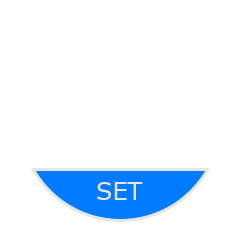
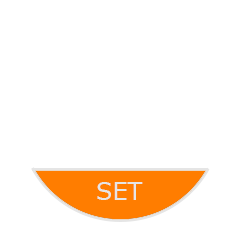
setting temperature

Changed region(s): [[0.1458, 0.7, 0.875, 0.9333]]

diff --git a/src/modbus_controller/MBController.cpp b/src/modbus_controller/MBController.cpp
@@ -10,18 +10,14 @@ void MBController::setupM5Dial()
     auto cfg = M5.config();
     M5Dial.begin(cfg, true, false);
 
-    //M5Dial.Display.begin();
     M5Dial.Display.setTextColor(WHITE);
     M5Dial.Display.setTextDatum(middle_center);
-    M5Dial.Display.setTextFont(&fonts::DejaVu24);
-    M5Dial.Display.setTextSize(1);
-
+    M5Dial.Display.setTextFont(&fonts::DejaVu12);
+    M5Dial.Display.setTextSize(2);
     M5Dial.Display.setBrightness(64);
 
-    //delay(3000);
     SPIFFS.begin(true);
 
-    // filesOpen();
 }
 
 void MBController::filesOpen()
@@ -55,57 +51,26 @@ void MBController::updateM5Dial()
 
 void MBController::checkEncoder()
 {
-    // newPosition_ = M5Dial.Encoder.read();
-
-    // if (newPosition_ - oldPosition_ >= 4) {  // Поворот энкодера
-    //     M5Dial.Speaker.tone(8000, 20);
-
-    //     switch(current_menu_)
-    //     {
-    //         case 0:
-    //             ++main_menu_mode_;
-    //             if (main_menu_mode_ > 1)
-    //             {
-    //                 main_menu_mode_ = 0;
-    //             }
-    //             else if (main_menu_mode_ < 0)
-    //             {
-    //                 main_menu_mode_ = 1;
-    //             }
-    //             break;
-    //         default:
-    //             current_menu_ = 0;
-    //             break;
-    //     }
-        
-    //     oldPosition_ = newPosition_;
-    //     update_ = true;
-    // }
-    // else if (newPosition_ - oldPosition_ <= -4)
-    // {
-    //     M5Dial.Speaker.tone(4000, 20);
-
-    //     switch(current_menu_)
-    //     {
-    //         case 0:
-    //             --main_menu_mode_;
-    //             if (main_menu_mode_ > 1)
-    //             {
-    //                 main_menu_mode_ = 0;
-    //             }
-    //             else if (main_menu_mode_ < 0)
-    //             {
-    //                 main_menu_mode_ = 1;
-    //             }
-    //             break;
-    //         default:
-    //             current_menu_ = 0;
-    //             break;
-    //     }
-        
-    //     oldPosition_ = newPosition_;
-    //     update_ = true;
-    // }
+    switch (current_menu_)
+    {
+    case 1:
+        newPosition_ = M5Dial.Encoder.read();
+        if (newPosition_ - oldPosition_ >= 4) {  // Поворот энкодера
+            M5Dial.Speaker.tone(4000, 20);
+            setTemp(1);
+            oldPosition_ = newPosition_;
+        }
+        else if (newPosition_ - oldPosition_ <= -4)
+        {
+            M5Dial.Speaker.tone(8000, 20);
+            setTemp(-1);
+            oldPosition_ = newPosition_;
+        }
+        break;
+    default:
+        break;
+    }
+    
 }
 
 void MBController::checkTouch()
@@ -154,6 +119,15 @@ void MBController::checkTouch()
     }
 }
 
+void MBController::checkButton()
+{
+    if ((current_menu_ != 0) && (M5Dial.BtnA.pressedFor(1000))) {
+        current_menu_ = 0;
+        update_ = true;
+        M5Dial.Speaker.tone(3000, 20);
+    }
+}
+
 void MBController::updateScreen()
 {
     if (update_)
@@ -175,14 +149,9 @@ void MBController::updateScreen()
     }
 }
 
-void MBController::drawCursor()
-{
-    // float angle[2] = {3.1415, 0};
-    // M5Dial.Display.fillCircle(M5Dial.Display.width()/2 + M5Dial.Display.width()*0.2*cos(angle[main_menu_mode_]), M5Dial.Display.height()/2, 5, WHITE);
-}
-
 void MBController::drawMainMenu()
 {
+    M5Dial.Display.fillScreen(BLACK);
     M5Dial.Display.drawPngFile(SPIFFS, "/Main_Temperature.png", 0, 0);
     //M5Dial.Display.drawPngFile(SPIFFS, "/Main_Temperature.png", 0, 0, M5Dial.Display.width(), M5Dial.Display.height(), 0, 0, 2, 2);
     M5Dial.Display.drawPngFile(SPIFFS, "/Main_Start.png", 0, 125);
@@ -238,7 +207,30 @@ void MBController::selectAnimation(byte btn)
 
 void MBController::drawTempMenu()
 {
-    M5Dial.Display.fillScreen(BLUE);
+    M5Dial.Display.fillScreen(BLACK);
     M5Dial.Display.drawPngFile(SPIFFS, "/Temperature_button.png", 0, 0);
     M5Dial.Display.drawPngFile(SPIFFS, "/Temperature_colorbar.png", 0, 0);
+    M5Dial.Display.drawPngFile(SPIFFS, "/Temp_for_temp.png", 20, 120);
+    M5Dial.Display.drawPngFile(SPIFFS, "/Cels_for_temp.png", 180, 120);
+    M5Dial.Display.drawString(String(temperature_), 120, 120, &fonts::FreeSans24pt7b); //FreeSans24pt7b Orbitron_Light_32
+    drawCursor();
+}
+
+void MBController::setTemp(byte inc)
+{
+    byte temp = temperature_+inc;
+    if ((temp <= 99) && (temp >= 0))
+    {
+        temperature_ = temp;
+        M5Dial.Display.fillRect(60, 70, 120, 90, BLACK);
+        M5Dial.Display.drawString(String(temperature_), 120, 120, &fonts::FreeSans24pt7b);
+        drawCursor();
+    }
+}
+
+void MBController::drawCursor()
+{
+    M5Dial.Display.fillCircle(90*cos((168 - 156*temperature_/99)*PI/180) + 120, -90*sin((168 - 156*temperature_/99)*PI/180) + 120, 5, WHITE);
+    M5Dial.Display.drawPngFile(SPIFFS, "/Temperature_colorbar.png", 0, 0);
+    M5Dial.Display.fillCircle(90*cos((168 - 156*temperature_/99)*PI/180) + 120, -90*sin((168 - 156*temperature_/99)*PI/180) + 120, 5, WHITE);
 }

diff --git a/src/modbus_controller/MBController.hpp b/src/modbus_controller/MBController.hpp
@@ -14,7 +14,9 @@ private:
 
     M5GFX display_;
 
-    uint16_t color_ = 0b1111101111000000; // Темнооранжевый
+    uint16_t main_color_ = 0b1111101111000000; // Темнооранжевый
+    uint16_t temp_color_ = 0b0000010010011111; // Голубой
+
     bool update_ = true; // Нужно ли обновлять экран
 
     int current_menu_ = 0;      // id текущего меню
@@ -31,13 +33,16 @@ private:
 
     m5::touch_state_t prev_state_;       // Предыдущее состояние сенсора
 
+    byte temperature_ = 10;
+
     void filesOpen();
 
-    void drawCursor();
     void drawMainMenu();
     void selectAnimation(byte btn);
 
     void drawTempMenu();
+    void setTemp(byte inc);
+    void drawCursor();
 
 public:
 
@@ -48,6 +53,7 @@ public:
 
     void checkEncoder();
     void checkTouch();
+    void checkButton();
 
     void updateScreen();
 };

diff --git a/src/main.cpp b/src/main.cpp
@@ -4,7 +4,6 @@ MBController MBC = MBController();
 
 void setup()
 {
-
     MBC.setupM5Dial();
 }
 
@@ -12,6 +11,7 @@ void loop()
 {
     MBC.updateM5Dial();
     MBC.updateScreen();
-    //MBC.checkEncoder();
+    MBC.checkEncoder();
     MBC.checkTouch();
+    MBC.checkButton();
 }
